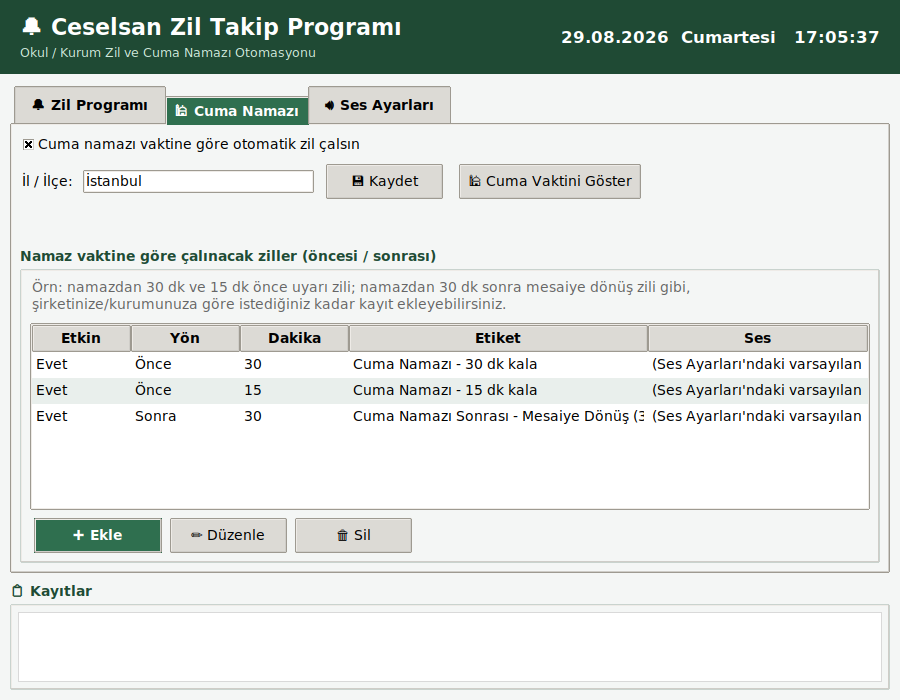
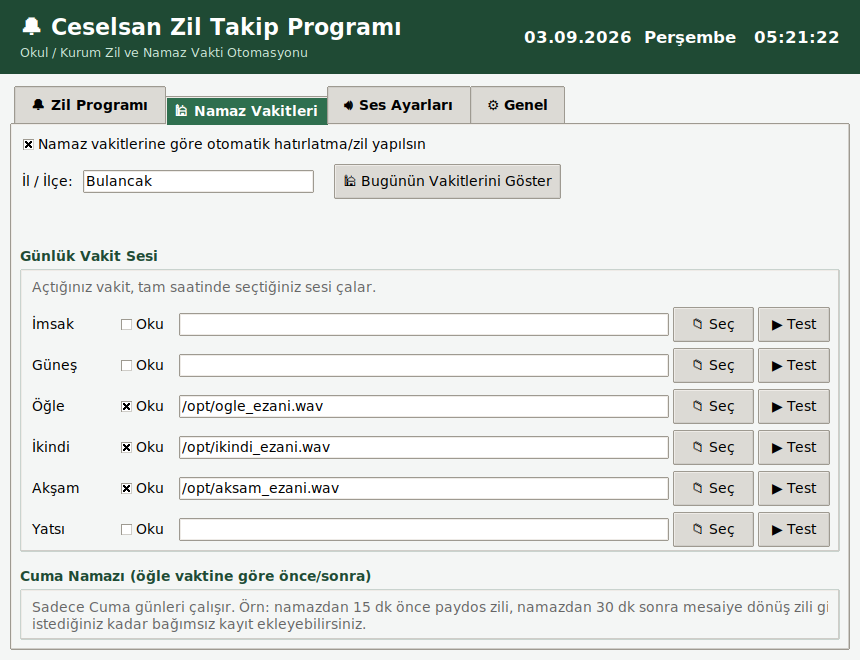
Ekran görüntülerini yeni Namaz Vakitleri tasarımıyla tazele, checkbox odak kutusunu kaldır
Checkbutton/Radiobutton'larda ttk 'clam' temasının varsayılan noktalı
odak çerçevesi kapatıldı (focuscolor=arkaplan) - "Namaz vakitlerine göre
otomatik hatırlatma/zil yapılsın" gibi uzun etiketli kutucuklarda dağınık
görünüme sebep oluyordu. README'deki 6 ekran görüntüsü, gerçek örnek
verilerle (zil kayıtları, günlük vakit sesleri, Cuma Namazı önce/sonra
kayıtları, tatil günleri) yeniden çekildi.

diff --git a/zil_takip/app_window.py b/zil_takip/app_window.py
@@ -314,8 +314,8 @@ class App(tk.Tk):
         style.configure("TLabelframe", background=BG, bordercolor="#c9d3ce")
         style.configure("TLabelframe.Label", background=BG, font=FONT_BOLD, foreground=ACCENT_DARK)
         style.configure("TLabel", background=BG, font=FONT)
-        style.configure("TCheckbutton", background=BG, font=FONT)
-        style.configure("TRadiobutton", background=BG, font=FONT)
+        style.configure("TCheckbutton", background=BG, font=FONT, focuscolor=BG)
+        style.configure("TRadiobutton", background=BG, font=FONT, focuscolor=BG)
         style.configure("TNotebook", background=BG, tabmargins=(4, 6, 4, 0))
         style.configure("TNotebook.Tab", font=FONT_BOLD, padding=(14, 8))
         style.map("TNotebook.Tab", background=[("selected", ACCENT)],
@@ -348,7 +348,7 @@ class App(tk.Tk):
     def _build_ui(self) -> None:
         self._build_header()
 
-        notebook = ttk.Notebook(self)
+        notebook = self.notebook = ttk.Notebook(self)
         notebook.pack(fill="both", expand=True, padx=10, pady=(6, 10))
 
         self.entries_tab = ttk.Frame(notebook)
